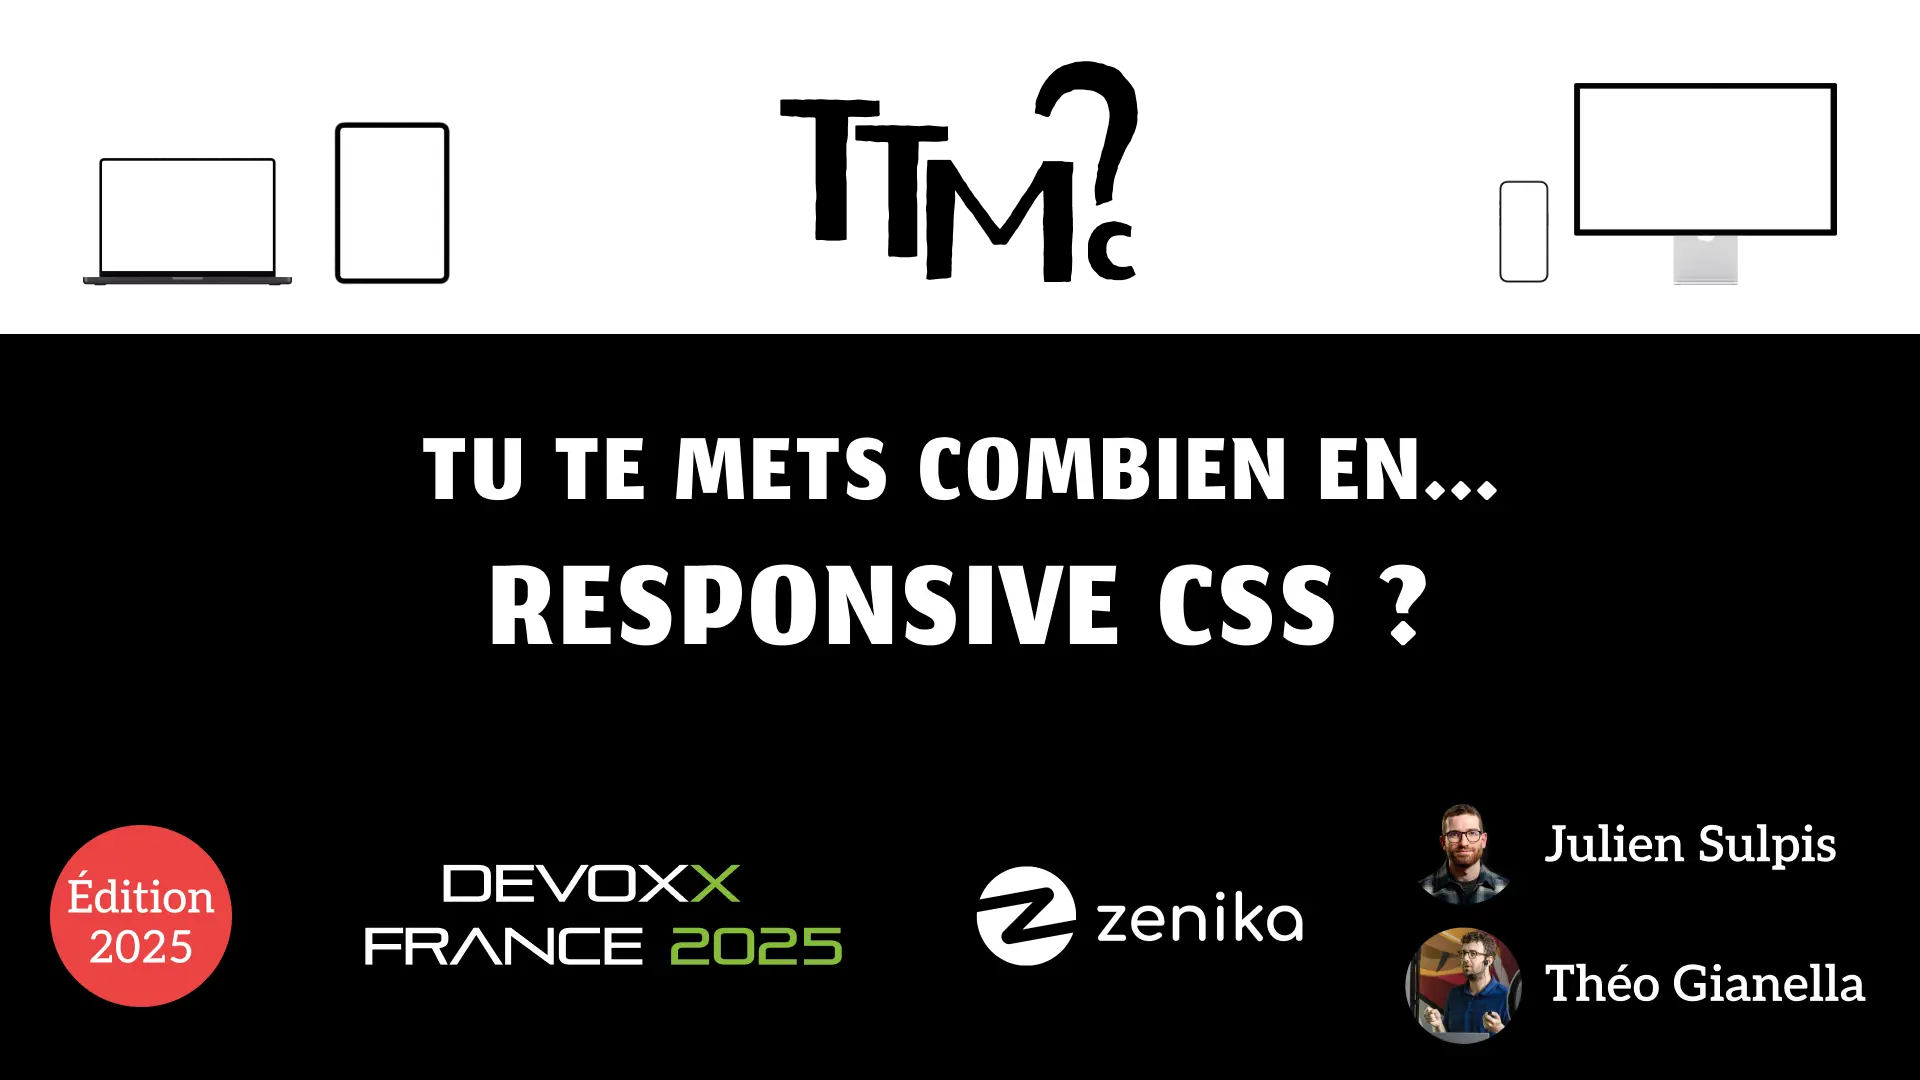
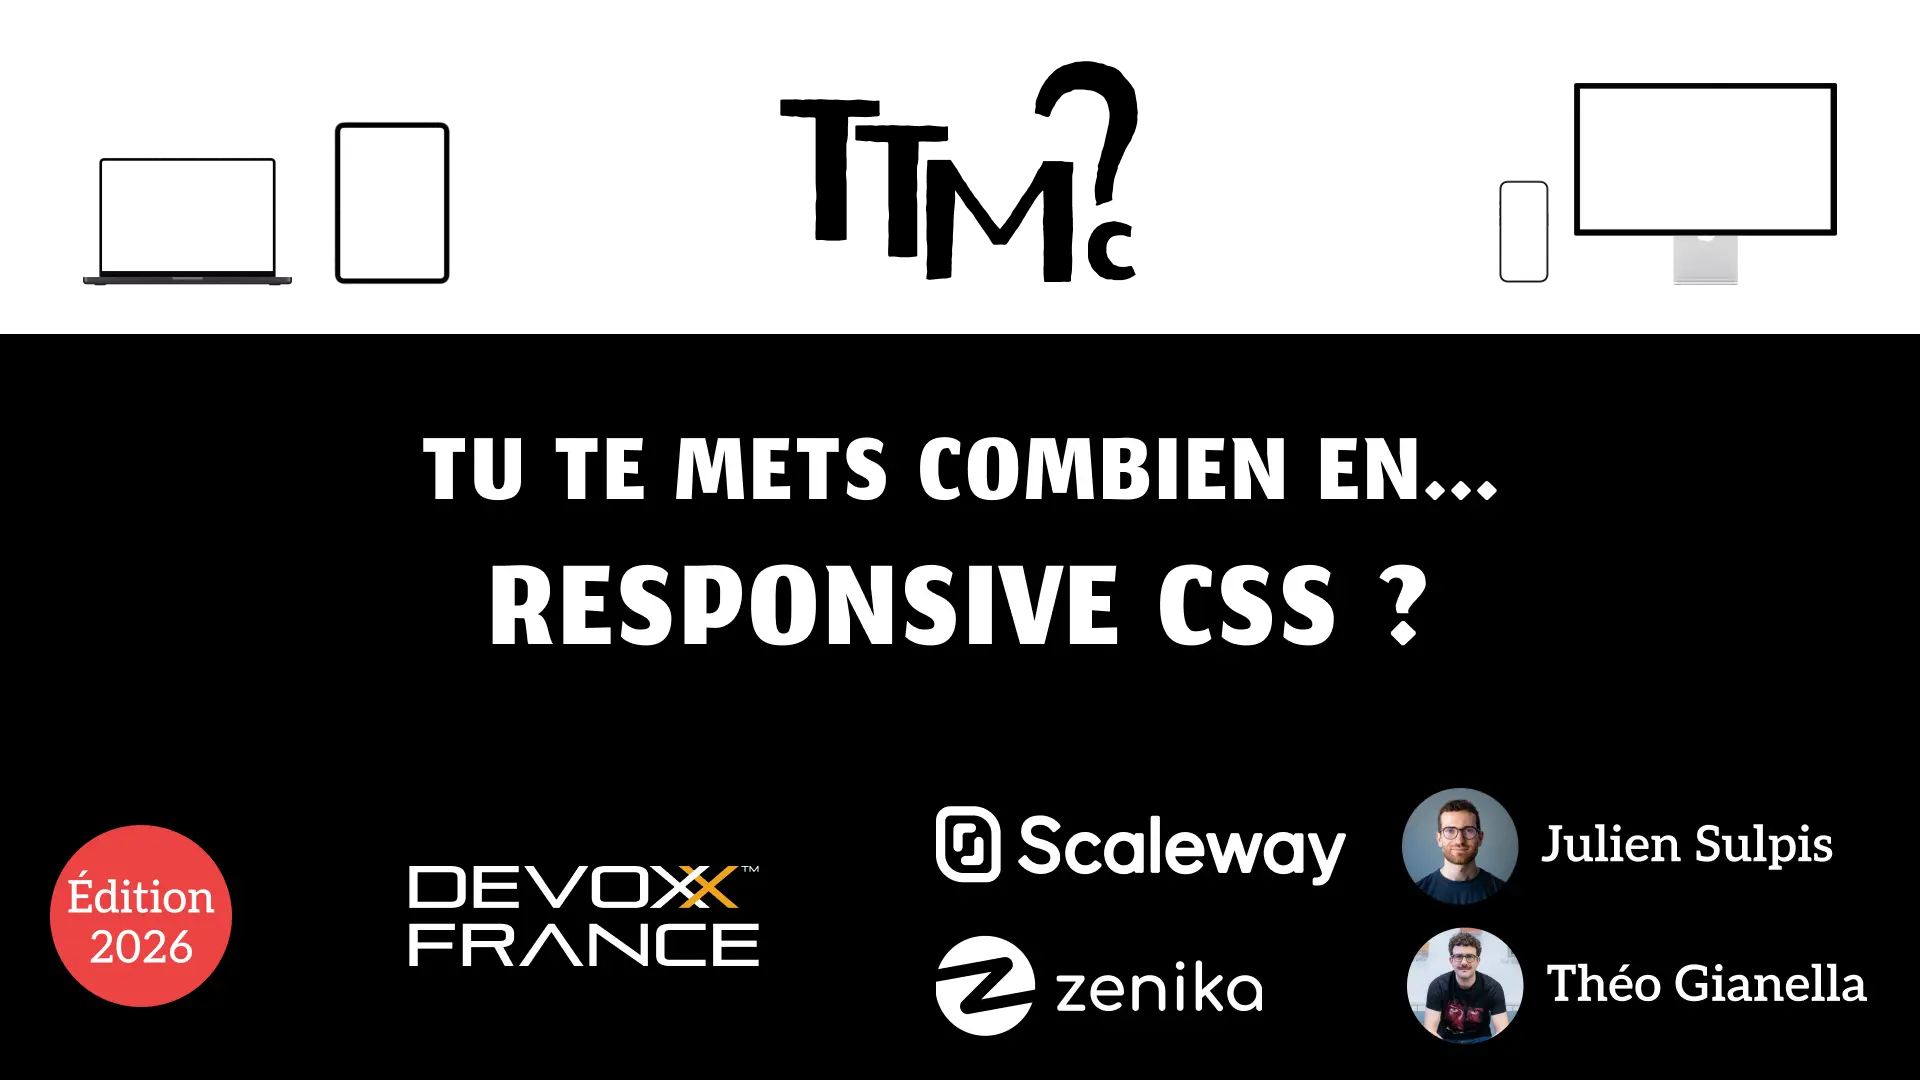
feat: update talk for DevoxxFR

Changed region(s): [[0.4688, 0.7333, 0.9688, 0.9778], [0.1875, 0.7944, 0.4375, 0.9167], [0.0625, 0.8556, 0.0938, 0.8861]]

diff --git a/src/events.ts b/src/events.ts
@@ -1,8 +1,4 @@
 const events = {
-  devoxx: {
-    introImg: "/images/intro-devoxx.webp",
-    outroImg: "/images/outro-devoxx.webp",
-  },
   mixit: {
     introImg: "/images/intro-mixit.webp",
     outroImg: "/images/outro-mixit.webp",
@@ -15,6 +11,10 @@ const events = {
     introImg: "/images/intro/snowcamp.webp",
     outroImg: "/images/outro-snowcamp.webp",
   },
+  devoxx: {
+    introImg: "/images/intro-devoxx.webp",
+    outroImg: "/images/outro-devoxx.webp",
+  },
 };
 
-export const currentEvent = events.snowcamp;
+export const currentEvent = Object.values(events).at(-1);

diff --git a/README.md b/README.md
@@ -2,9 +2,9 @@
 
 Une conférence qui fait le tour d’horizon des mille et une manières d’implémenter un design web responsive en CSS, des techniques les plus basiques aux plus modernes !
 
-## 📣 Le talk 
+## 📣 Le talk
 * [Slides](http://talk-responsive-css.vercel.app)
-* [Feedback](https://app.voxxr.in/events/snowcamp26/rate-talk/52)
+* [Feedback](https://m.devoxx.com/events/devoxxfr2026/talks/77095/tu-te-mets-combien-en-responsive-css-edition-2026)
 
 ## 🫡 Les speakers
 * [Julien Sulpis](https://github.com/jsulpis)
